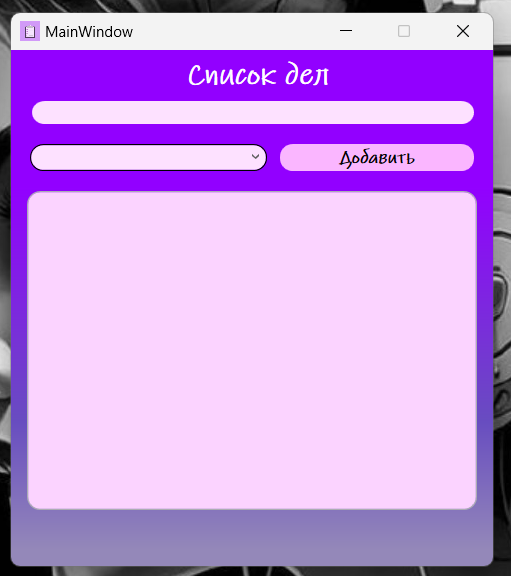
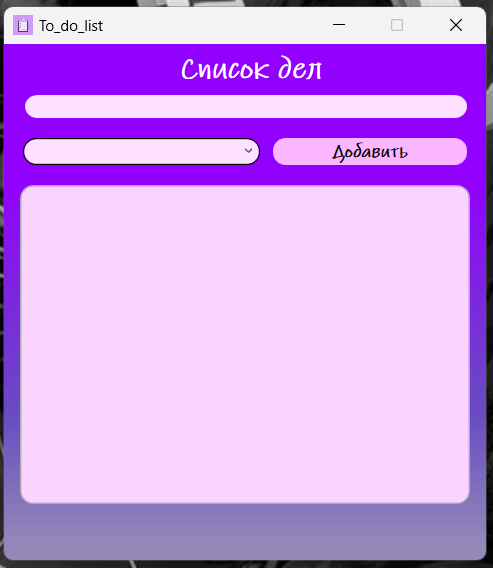
update

Changed region(s): [[0.0, 0.0, 1.0, 1.0]]

diff --git a/To-Do List/To-Do List/MainWindow.xaml b/To-Do List/To-Do List/MainWindow.xaml
@@ -1,11 +1,11 @@
-<Window x:Class="To_Do_List.MainWindow"
+<Window x:Name="To_do_list" x:Class="To_Do_List.MainWindow"
         xmlns="http://schemas.microsoft.com/winfx/2006/xaml/presentation"
         xmlns:x="http://schemas.microsoft.com/winfx/2006/xaml"
         xmlns:d="http://schemas.microsoft.com/expression/blend/2008"
         xmlns:mc="http://schemas.openxmlformats.org/markup-compatibility/2006"
         xmlns:local="clr-namespace:To_Do_List"
         mc:Ignorable="d"
-        Title="MainWindow" Height="450" Width="400" Background="Azure"
+        Title="To_do_list" Height="450" Width="400" Background="Azure"
     xmlns:theme="clr-namespace:Microsoft.Windows.Themes;assembly=PresentationFramework.Aero2" ResizeMode="CanMinimize">
     <Window.Resources>
         <Style x:Key="FocusVisual">
